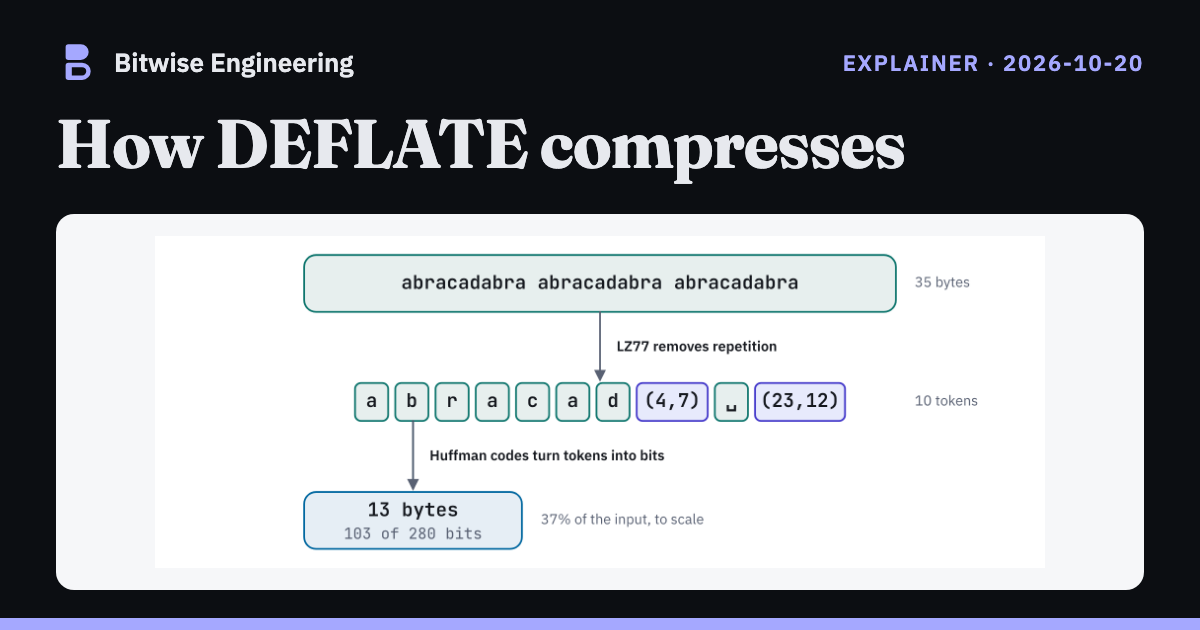
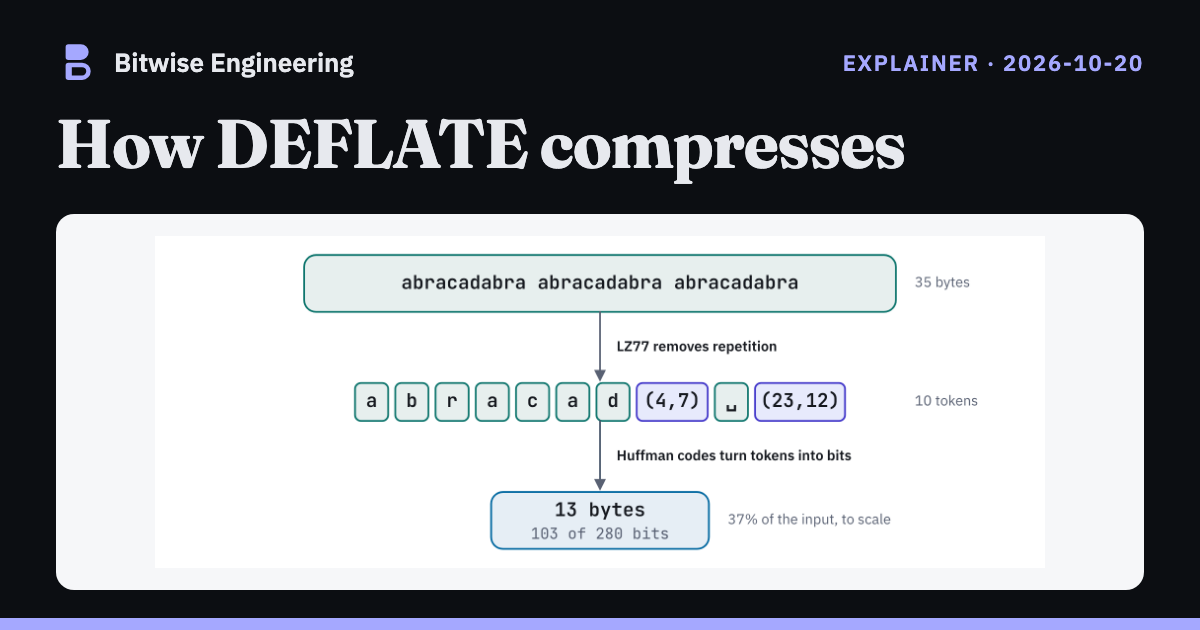
Review fixes for #120: centre the to-scale output box, derive token geometry
Centre the 103-bit box under the token row so the Huffman edge leaves the row's
middle again, make the stripe ignore the pointer, derive the window tokens'
x/w from start/len, and test that a step lights the stripe.

Changed region(s): [[0.2467, 0.6937, 0.74, 0.8746]]

diff --git a/docs/how-deflate-compresses.html b/docs/how-deflate-compresses.html
@@ -45,6 +45,7 @@
     #overview .node text.sub { font-size: 13px; }
     #window .cell text { font-weight: 500; }
     #window .win-cursor { fill: var(--accent); }
+    #window .win-ov { pointer-events: none; }
     #window .win-ov rect { fill: url(#win-stripe); }
     #win-stripe rect { fill: color-mix(in oklab, var(--c1) 32%, transparent); }
     #huffman-tree .leaf text:not(.sub) { font-size: 18px; }
@@ -268,10 +269,10 @@
           <g class="node c1 tok"><rect x="491" y="108" width="76" height="32" rx="5"/><text x="529" y="124">(23,12)</text></g>
         </g>
         <text class="label" x="626" y="124">10 tokens</text>
-        <path class="edge c6" data-id="e-huffman" d="M202 140 V189"/>
-        <text class="label strong" x="216" y="170">Huffman codes turn tokens into bits</text>
-        <g class="node c5" data-id="bits"><rect x="110" y="200" width="184" height="48" rx="10"/><text x="202" y="216">13 bytes</text><text class="sub" x="202" y="236">103 of 280 bits</text></g>
-        <text class="label" x="310" y="224">37% of the input, to scale</text>
+        <path class="edge c6" data-id="e-huffman" d="M360 140 V189"/>
+        <text class="label strong" x="374" y="170">Huffman codes turn tokens into bits</text>
+        <g class="node c5" data-id="bits"><rect x="268" y="200" width="184" height="48" rx="10"/><text x="360" y="216">13 bytes</text><text class="sub" x="360" y="236">103 of 280 bits</text></g>
+        <text class="label" x="468" y="224">37% of the input, to scale</text>
       </svg>
       <ul class="legend">
         <li><span class="swatch c2"></span>literal byte</li>
@@ -1128,24 +1129,26 @@ document.addEventListener("DOMContentLoaded", () => {
 
   // ---- LZ77 window: tokens leave the input and collapse into (length, distance) -------------
   const INPUT = "abracadabra abracadabra abracadabra";
+  // Each token sits under the bytes it replaces: the cell pitch is 20, inset by 1 each side.
   const TOK = [
-    { start: 0, len: 1, label: "a", kind: "c2", x: 1, w: 18 },
-    { start: 1, len: 1, label: "b", kind: "c2", x: 21, w: 18 },
-    { start: 2, len: 1, label: "r", kind: "c2", x: 41, w: 18 },
-    { start: 3, len: 1, label: "a", kind: "c2", x: 61, w: 18 },
-    { start: 4, len: 1, label: "c", kind: "c2", x: 81, w: 18 },
-    { start: 5, len: 1, label: "a", kind: "c2", x: 101, w: 18 },
-    { start: 6, len: 1, label: "d", kind: "c2", x: 121, w: 18 },
-    { start: 7, len: 4, label: "(4,7)", kind: "c1", x: 141, w: 78 },
-    { start: 11, len: 1, label: "␣", kind: "c2", x: 221, w: 18 },
-    { start: 12, len: 23, label: "(23,12)", kind: "c1", x: 241, w: 458 },
-  ];
+    { start: 0, len: 1, label: "a", kind: "c2" },
+    { start: 1, len: 1, label: "b", kind: "c2" },
+    { start: 2, len: 1, label: "r", kind: "c2" },
+    { start: 3, len: 1, label: "a", kind: "c2" },
+    { start: 4, len: 1, label: "c", kind: "c2" },
+    { start: 5, len: 1, label: "a", kind: "c2" },
+    { start: 6, len: 1, label: "d", kind: "c2" },
+    { start: 7, len: 4, label: "(4,7)", kind: "c1" },
+    { start: 11, len: 1, label: "␣", kind: "c2" },
+    { start: 12, len: 23, label: "(23,12)", kind: "c1" },
+  ].map((t) => ({ ...t, x: t.start * 20 + 1, w: t.len * 20 - 2 }));
+  const TOKEN_Y = 118;
   const EMIT = [1, 1, 1, 1, 1, 1, 1, 3, 4, 6], FOUND = { 7: 2, 9: 5 }, CURSOR = [0, 7, 7, 11, 12, 12, 35];
   const windowState = (k, hideCursor) => {
     const s = {};
     TOK.forEach((t, i) => {
       const out = k >= EMIT[i], boxed = !out && FOUND[i] !== undefined && k >= FOUND[i];
-      s[`t${i}`] = out ? { x: t.x, y: 118, w: t.w, h: 30, op: 1, text: t.label }
+      s[`t${i}`] = out ? { x: t.x, y: TOKEN_Y, w: t.w, h: 30, op: 1, text: t.label }
         : { x: t.start * 20, y: 40, w: t.len * 20, h: 28, op: boxed ? 1 : 0, text: INPUT.substr(t.start, t.len).replace(/ /g, "␣") };
       for (let c = t.start; c < t.start + t.len; c++) s[`c${c}`] = { tone: out ? t.kind : "" };
     });
